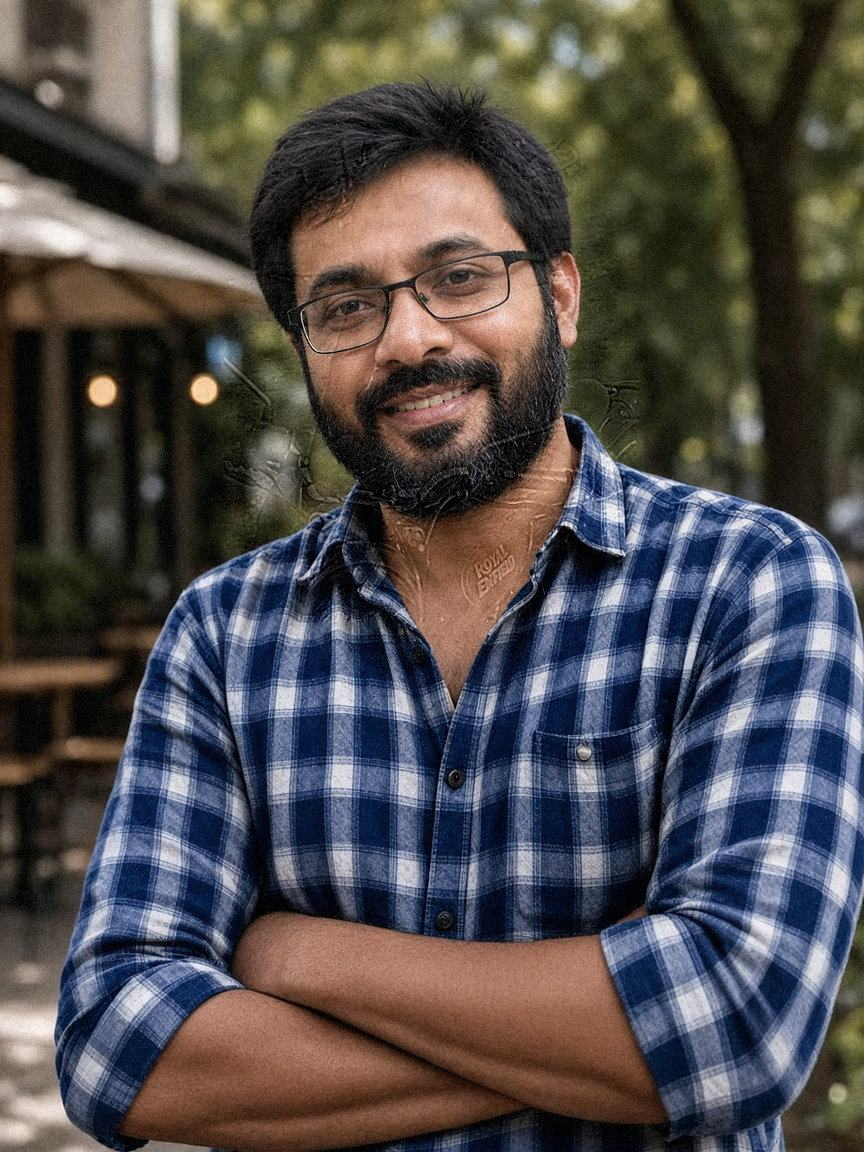
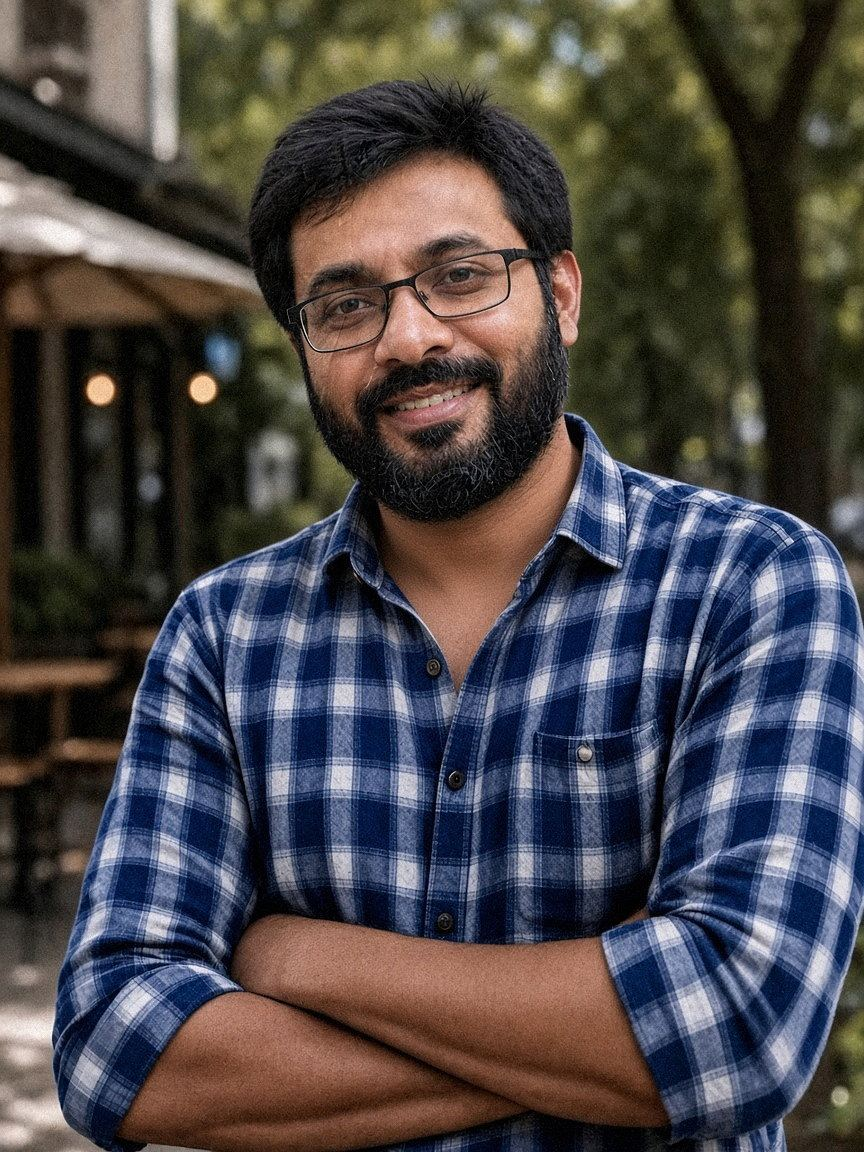
Remove Royal Enfield watermark bleed from Kabir DP (desk124)
Replace desk123 JPEG that leaked faint logo/text on neck and upper chest.
Keep outdoor glasses/blue-check instructor look; cache-bust desk124 / ?v=8;
sync Flutter mentor. No APK.

diff --git a/js/app.js b/js/app.js
@@ -812,7 +812,7 @@ const MENTORS = [
   { name: "Neha Kapoor", role: "Options specialist", tag: "Income strategies", img: "/img/instructors/neha-kapoor.jpg?v=7" },
   { name: "Vikram Singh", role: "Price action coach", tag: "Swing trading", img: "https://images.unsplash.com/photo-1506794778202-cad84cf45f1d?auto=format&fit=crop&w=640&h=860&q=80" },
   { name: "Ananya Rao", role: "Long-term investor", tag: "Portfolio", img: "https://images.unsplash.com/photo-1573496359142-b8d87734a5a2?auto=format&fit=crop&w=640&h=860&q=80" },
-  { name: "Kabir Joshi", role: "Index options", tag: "Bank Nifty", img: "/img/instructors/kabir-joshi.jpg?v=7" },
+  { name: "Kabir Joshi", role: "Index options", tag: "Bank Nifty", img: "/img/instructors/kabir-joshi.jpg?v=8" },
   { name: "Rohan Desai", role: "Fund researcher", tag: "Mutual funds", img: "https://images.unsplash.com/photo-1519085360753-af0119f7cbe7?auto=format&fit=crop&w=640&h=860&q=80" },
   { name: "Priya Nair", role: "Asset allocation", tag: "SIP lab", img: "https://images.unsplash.com/photo-1580489944761-15a19d654956?auto=format&fit=crop&w=640&h=860&q=80" },
   { name: "Meera Iyer", role: "Options coach", tag: "Defined risk", img: "https://images.unsplash.com/photo-1438761681033-6461ffad8d80?auto=format&fit=crop&w=640&h=860&q=80" }
@@ -4910,6 +4910,7 @@ function traderIcon(kind) {
 /* cache-bust desk121: Kabir Joshi DP outdoor park path phone-candid blur /img/instructors/kabir-joshi.jpg?v=5 */
 /* cache-bust desk122: Kabir Joshi DP outdoor + Isha phone-face pores/flyaways grain /img/instructors/kabir-joshi.jpg?v=6 */
 /* cache-bust desk123: Kabir Joshi DP user phone-ref skin/beard grain outdoor /img/instructors/kabir-joshi.jpg?v=7 */
+/* cache-bust desk124: Kabir Joshi DP remove Royal Enfield neck watermark bleed /img/instructors/kabir-joshi.jpg?v=8 */
 function traderCardHTML(m, i, opts = {}) {
   const title = String(m.role || m.tag || "Mentor").trim();
   const cloneAttrs = opts.clone ? ' tabindex="-1" aria-hidden="true"' : "";

diff --git a/account.html b/account.html
@@ -17,7 +17,7 @@
   <div id="site-header"></div>
   <main id="accountRoot" class="ld-page"></main>
   <div id="site-footer"></div>
-  <script src="/js/app.js?v=desk123" defer></script>
+  <script src="/js/app.js?v=desk124" defer></script>
   <script src="/js/lms.js?v=cert2" defer></script>
 </body>
 </html>

diff --git a/learning.html b/learning.html
@@ -17,7 +17,7 @@
   <div id="site-header"></div>
   <main id="myLearning" class="ld-page"></main>
   <div id="site-footer"></div>
-  <script src="/js/app.js?v=desk123" defer></script>
+  <script src="/js/app.js?v=desk124" defer></script>
   <script src="/js/lms.js?v=cert2" defer></script>
 </body>
 </html>

diff --git a/course.html b/course.html
@@ -22,7 +22,7 @@
     </div>
   </main>
   <div id="site-footer"></div>
-  <script src="/js/app.js?v=desk123" defer></script>
+  <script src="/js/app.js?v=desk124" defer></script>
   <script src="/js/lms.js?v=cert2" defer></script>
   <script src="/js/drm.js?v=desk29" defer></script>
 </body>

diff --git a/contact.html b/contact.html
@@ -48,7 +48,7 @@
   </main>
   <div id="site-footer"></div>
   <script src="/js/help-faqs.js?v=faq1" defer></script>
-  <script src="/js/app.js?v=desk123" defer></script>
+  <script src="/js/app.js?v=desk124" defer></script>
   <script src="/js/lms.js" defer></script>
 </body>
 </html>

diff --git a/certificate.html b/certificate.html
@@ -19,7 +19,7 @@
     <div id="certRoot"></div>
   </main>
   <div id="site-footer"></div>
-  <script src="/js/app.js?v=desk123" defer></script>
+  <script src="/js/app.js?v=desk124" defer></script>
   <script src="/js/lms.js?v=cert2" defer></script>
 </body>
 </html>

diff --git a/control.html b/control.html
@@ -253,7 +253,7 @@
         loading = true;
         busy(true);
         var files = [
-          "/js/app.js?v=desk123",
+          "/js/app.js?v=desk124",
           "/js/lms.js",
           "/js/admin-core.js?v=desk8",
           "/js/admin.js?v=drm5",

diff --git a/index.html b/index.html
@@ -415,7 +415,7 @@
     </section>
   </main>
   <div id="site-footer"></div>
-  <script src="/js/app.js?v=desk123" defer></script>
+  <script src="/js/app.js?v=desk124" defer></script>
   <script src="/js/lms.js?v=cert2" defer></script>
 </body>
 </html>

diff --git a/live-room.html b/live-room.html
@@ -22,7 +22,7 @@
 </head>
 <body class="live-room-page">
   <div id="liveRoom"></div>
-  <script src="/js/app.js?v=desk123" defer></script>
+  <script src="/js/app.js?v=desk124" defer></script>
   <script src="/js/lms.js" defer></script>
 </body>
 </html>

diff --git a/nifty-options.html b/nifty-options.html
@@ -44,7 +44,7 @@
     </section>
   </main>
   <div id="site-footer"></div>
-  <script src="/js/app.js?v=desk123" defer></script>
+  <script src="/js/app.js?v=desk124" defer></script>
   <script src="/js/lms.js?v=cert2" defer></script>
 </body>
 </html>

diff --git a/option-trading-course.html b/option-trading-course.html
@@ -44,7 +44,7 @@
     </section>
   </main>
   <div id="site-footer"></div>
-  <script src="/js/app.js?v=desk123" defer></script>
+  <script src="/js/app.js?v=desk124" defer></script>
   <script src="/js/lms.js?v=cert2" defer></script>
 </body>
 </html>

diff --git a/share-market-course-in-hindi.html b/share-market-course-in-hindi.html
@@ -42,7 +42,7 @@
     </section>
   </main>
   <div id="site-footer"></div>
-  <script src="/js/app.js?v=desk123" defer></script>
+  <script src="/js/app.js?v=desk124" defer></script>
   <script src="/js/lms.js?v=cert2" defer></script>
 </body>
 </html>
